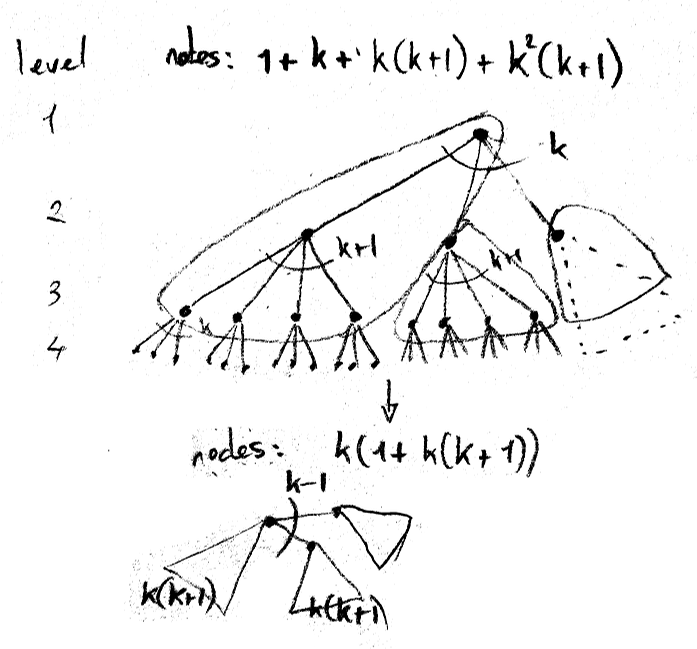
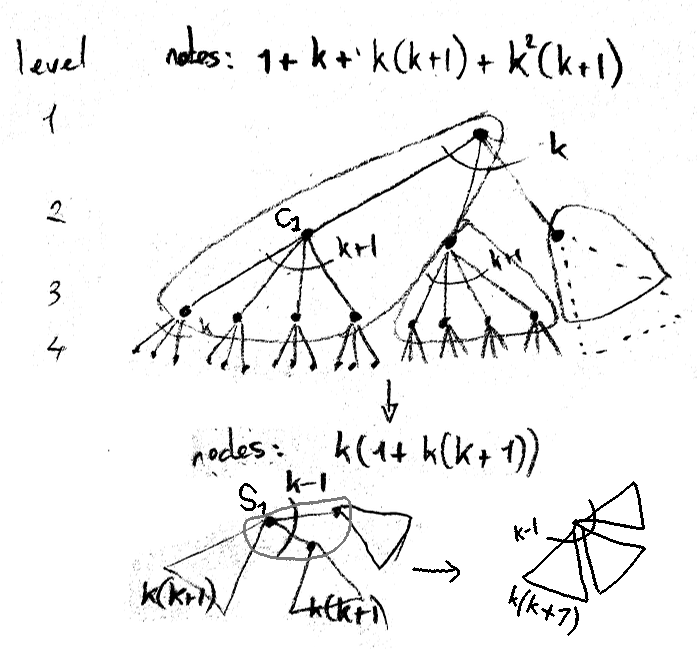
found a mistake in the node reduction proof :(

diff --git a/gtx_algorithm.tex b/gtx_algorithm.tex
@@ -483,6 +483,8 @@ $$\alpha = \frac{k\left(k(k+1)\right)}{1+k+k(k+1)+k^2(k+1)}
 We will now see that when so many singleton stars are created at one iteration, the next iteration
 greatly reduces the number of nodes so that over the course of two iterations, we have the following
 result:
+{\color{blue}{\large the following is actually incorrect but I leave it for now for illustration
+purpose}
 
 \begin{lemma}
   \label{lemma:gtx_lessnodes}
@@ -508,7 +510,7 @@ result:
   In the worst case, those connections are uniform so that each of these proper stars has degree at least
   $\frac{\alpha n_t}{\frac{1-\alpha}{2}n_t} = \frac{2\alpha}{1-\alpha}$ which goes to infinity when
   $\alpha$ goes to $1$ and is greater than $18$ when $\alpha$ is greater than $\nicefrac{9}{10}$.
-  Even ignoring the fact that those proper stars are connected, it follows that in the next
+  \textbf{Even ignoring the fact that those proper stars are connected}, it follows that in the next
   iteration, the number of node will be reduced by the degree of those proper stars. Setting in the
   worst case $n_{t+1}=\frac{1+\alpha}{2}n_t$, we thus have $$n_{t+2} \leq
   \frac{n_{t+1}}{\frac{2\alpha}{1-\alpha}} = \frac{1-\alpha^2}{4\alpha}n_t$$
@@ -530,7 +532,15 @@ result:
 \end{proof}
 
 From that we conclude that the number of iterations of the \gtx{} algorithm satisfies $K=O(\log
-|V_0|)$. We would like to prove a similar result on the edges so that the overall complexity of the
+|V_0|)$.}
+The problem is that we cannot ignore the fact that proper stars are connected, since one of them can
+be connected to all others and have the highest degree. That proper star is then chosen as the first
+center, all other proper stars become its periphery and all their attached singletons star remain
+singleton stars at the next iteration. This actually what happens on \autoref{fig:gtx_manysingles},
+an example where $|V_{t+2}| \sim |V_t| \sim k^3$. This could even be worse if proper stars are
+connected in such a hierarchical way that singleton stars can survive for many iterations.
+
+We would like to prove a similar result on the edges so that the overall complexity of the
 \gtx{} algorithm would be $O(|V_0|\log |V_0|+|E_0|)$. However, this does not follow directly from the
 reduction of number of nodes. Indeed, we can have a situation where most of the edges of $E_t$ are
 between the stars of $G_t$ and thus will remain in the next iteration. Still, we hope that
